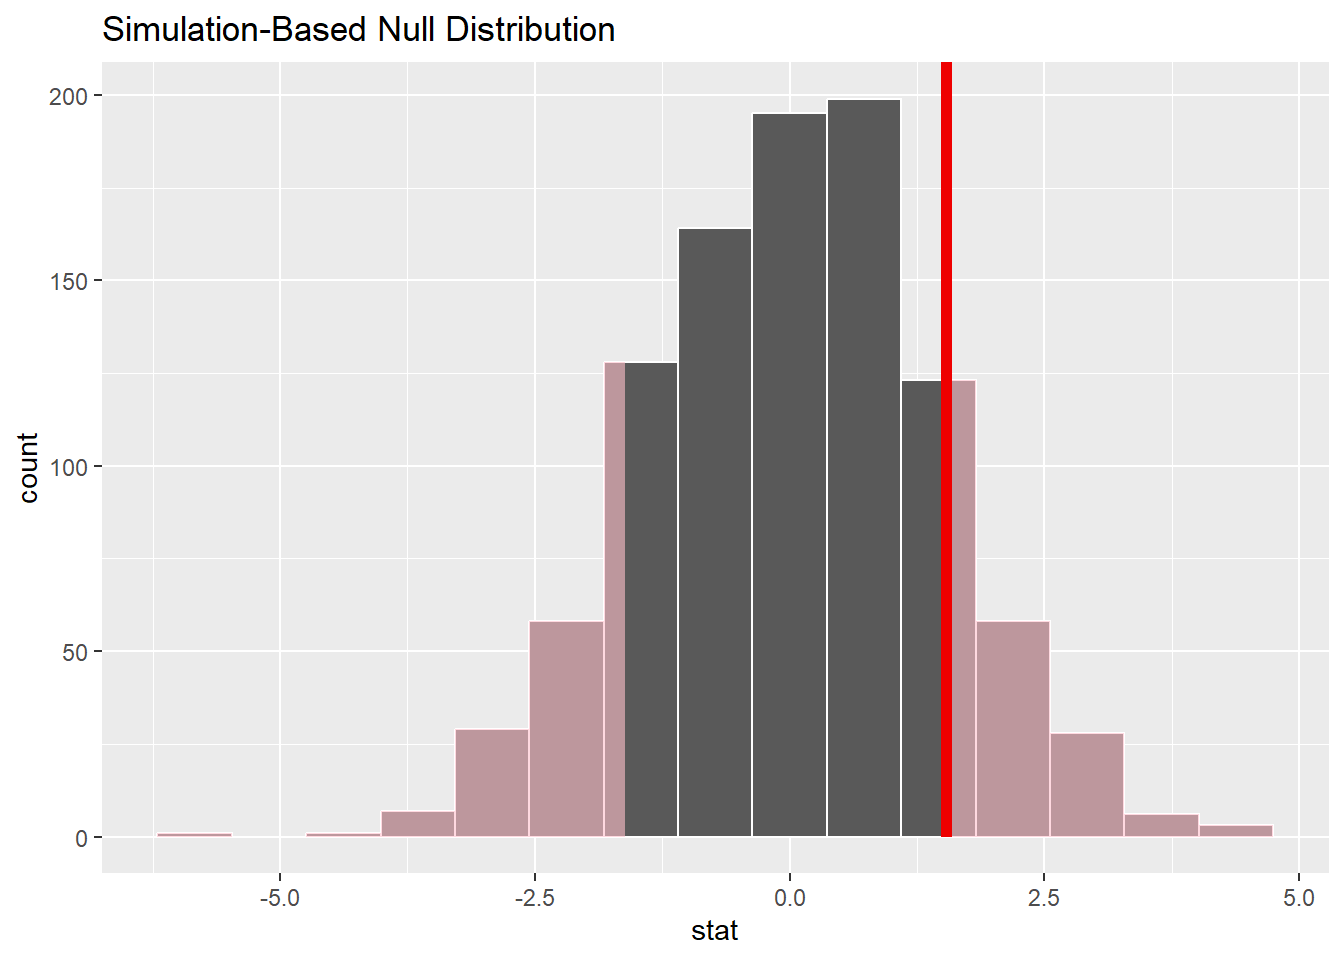
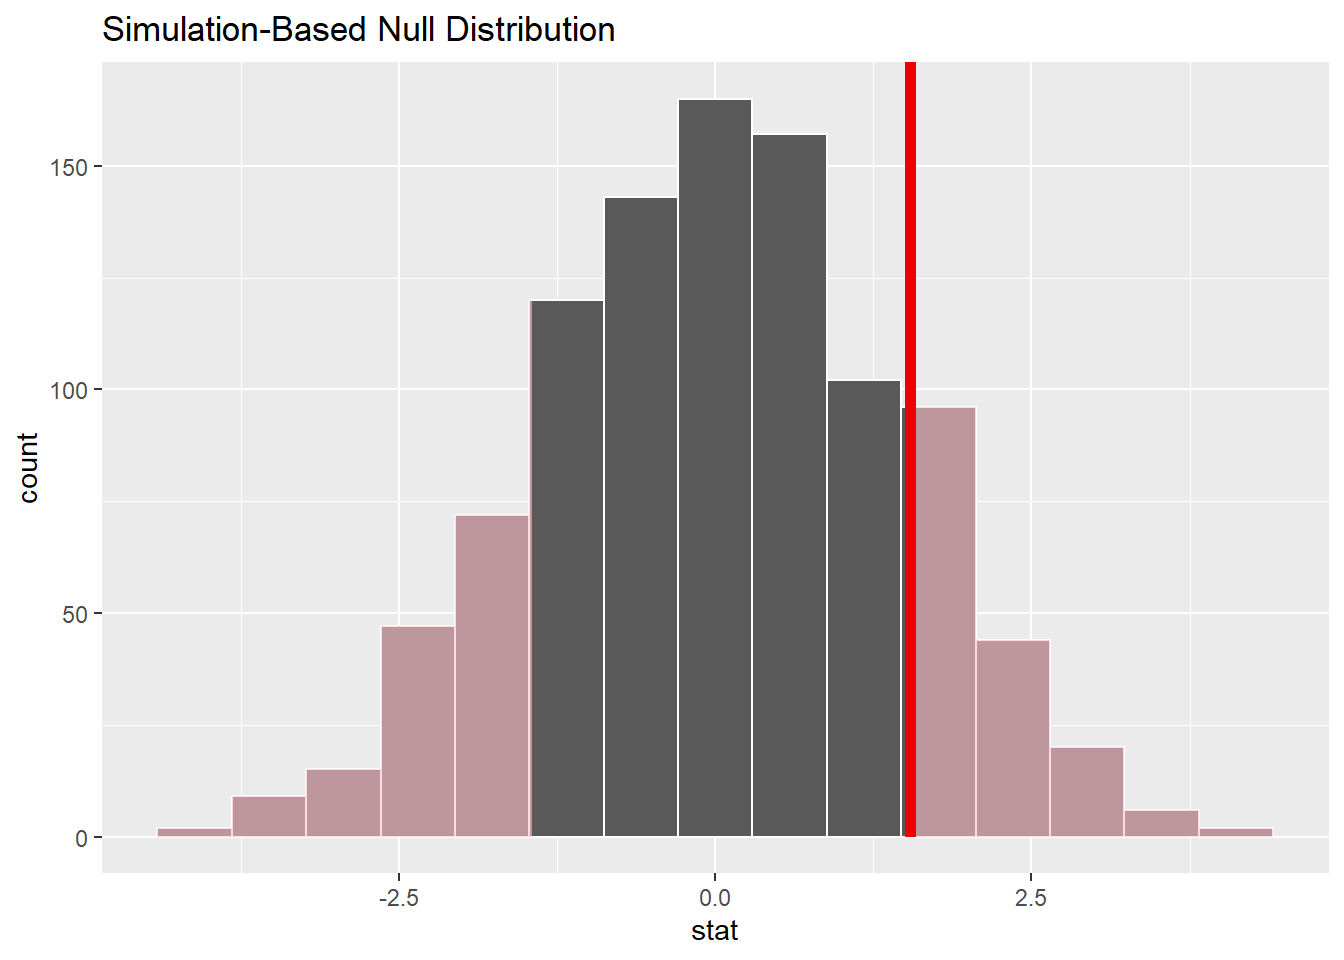
changes of typos and age for hours

diff --git a/docs/website/labs/lab10-inferences/lab10-inferences.html b/docs/website/labs/lab10-inferences/lab10-inferences.html
@@ -411,22 +411,22 @@ $ weight  &lt;dbl&gt; 0.8960034, 1.0825000, 0.5501000, 1.0864000, 1.0825000, 1.0
 <p>Nous allons commencer par spécifier la variable que nous voulons étudier. Pour cela nous pouvons utiliser la fonction <code>specify()</code>. Nous allons spécifier la variable <code>hours</code> qui représente le temps de travail hebdomadaire.</p>
 <div class="cell">
 <div class="sourceCode cell-code" id="cb4"><pre class="sourceCode r code-with-copy"><code class="sourceCode r"><span id="cb4-1"><a href="#cb4-1" aria-hidden="true" tabindex="-1"></a>gss <span class="sc">%&gt;%</span></span>
-<span id="cb4-2"><a href="#cb4-2" aria-hidden="true" tabindex="-1"></a>  <span class="fu">specify</span>(<span class="at">response =</span> age)</span></code><button title="Copy to Clipboard" class="code-copy-button"><i class="bi"></i></button></pre></div>
+<span id="cb4-2"><a href="#cb4-2" aria-hidden="true" tabindex="-1"></a>  <span class="fu">specify</span>(<span class="at">response =</span> hours)</span></code><button title="Copy to Clipboard" class="code-copy-button"><i class="bi"></i></button></pre></div>
 <div class="cell-output cell-output-stdout">
-<pre><code>Response: age (numeric)
+<pre><code>Response: hours (numeric)
 # A tibble: 500 × 1
-     age
+   hours
    &lt;dbl&gt;
- 1    36
- 2    34
- 3    24
- 4    42
- 5    31
- 6    32
- 7    48
- 8    36
- 9    30
-10    33
+ 1    50
+ 2    31
+ 3    40
+ 4    40
+ 5    40
+ 6    53
+ 7    32
+ 8    20
+ 9    40
+10    40
 # ℹ 490 more rows</code></pre>
 </div>
 </div>
@@ -468,16 +468,16 @@ Null Hypothesis: point
 # Groups:   replicate [1,000]
    replicate hours
        &lt;int&gt; &lt;dbl&gt;
- 1         1  87.6
- 2         1  46.6
- 3         1  38.6
- 4         1  48.6
- 5         1  48.6
- 6         1  70.6
- 7         1  38.6
- 8         1  42.6
- 9         1  58.6
-10         1  48.6
+ 1         1  38.6
+ 2         1  70.6
+ 3         1  28.6
+ 4         1  38.6
+ 5         1  38.6
+ 6         1  38.6
+ 7         1  23.6
+ 8         1  38.6
+ 9         1  36.6
+10         1  70.6
 # ℹ 499,990 more rows</code></pre>
 </div>
 </div>
@@ -495,16 +495,16 @@ Null Hypothesis: point
 # A tibble: 1,000 × 2
    replicate  stat
        &lt;int&gt; &lt;dbl&gt;
- 1         1  41.1
- 2         2  40.9
- 3         3  41.0
- 4         4  40.7
- 5         5  40.2
- 6         6  40.4
- 7         7  39.6
- 8         8  40.2
- 9         9  39.0
-10        10  40.6
+ 1         1  40.4
+ 2         2  39.8
+ 3         3  39.1
+ 4         4  40.3
+ 5         5  40.1
+ 6         6  40.0
+ 7         7  40.1
+ 8         8  40.3
+ 9         9  39.8
+10        10  41.1
 # ℹ 990 more rows</code></pre>
 </div>
 </div>
@@ -558,7 +558,7 @@ Null Hypothesis: point
 <pre><code># A tibble: 1 × 1
   p_value
     &lt;dbl&gt;
-1   0.034</code></pre>
+1   0.044</code></pre>
 </div>
 </div>
 <p>Avant de faire ce test, nous aurions du définir un niveau de signification <span class="math inline">\(\alpha\)</span>. Si la valeur p est inférieure à <span class="math inline">\(\alpha\)</span>, nous pouvons rejeter l’hypothèse nulle. En fixant <span class="math inline">\(\alpha = 0.05\)</span>, nous rejetons l’hypothèse nulle. En fixant <span class="math inline">\(\alpha = 0.01\)</span>, nous ne rejetons pas l’hypothèse nulle.</p>
@@ -585,7 +585,7 @@ Null Hypothesis: point
 <pre><code># A tibble: 1 × 2
   lower_ci upper_ci
      &lt;dbl&gt;    &lt;dbl&gt;
-1     40.1     42.7</code></pre>
+1     40.0     42.8</code></pre>
 </div>
 </div>
 <p>Ici, notez que dans la définition de <code>boot_dist</code>, nous n’avons pas défini d’hypothèse nulle. Cela signifie que nous générons une distribution de statistiques à partir de nos données sans hypothèse nulle. Nous utilisons ensuite cette distribution pour calculer l’intervalle de confiance.</p>
@@ -697,7 +697,7 @@ Explanatory: college (factor)
 <pre><code># A tibble: 1 × 1
   p_value
     &lt;dbl&gt;
-1   0.262</code></pre>
+1   0.302</code></pre>
 </div>
 </div>
 <section id="exercice-1" class="level2">
@@ -806,7 +806,7 @@ Explanatory: partyid (factor)
 <pre><code># A tibble: 1 × 1
   p_value
     &lt;dbl&gt;
-1   0.053</code></pre>
+1   0.063</code></pre>
 </div>
 </div>
 <section id="exercice-2" class="level2">
@@ -818,8 +818,8 @@ Explanatory: partyid (factor)
 <h1>Exercice - Effet de la cigarette sur la grossesse</h1>
 <section id="les-données" class="level2">
 <h2 class="anchored" data-anchor-id="les-données">Les données</h2>
-<p>Dans cet exercice, nous allons étudier l’effet de la cigarette sur la grossesse. Pour cela, nous allons utiliser le jeu de données <code>ncbirth</code> du package <code>openintro</code>. Ce jeu de données contient des données sur les grossesses de l’état de Caroline du Nord.</p>
-<p>Chargez le package <code>openintro</code> et affichez un aperçu des premières lignes du jeu de données <code>ncbirth</code>.</p>
+<p>Dans cet exercice, nous allons étudier l’effet de la cigarette sur la grossesse. Pour cela, nous allons utiliser le jeu de données <code>ncbirths</code> du package <code>openintro</code>. Ce jeu de données contient des données sur les grossesses de l’état de Caroline du Nord.</p>
+<p>Chargez le package <code>openintro</code> et affichez un aperçu des premières lignes du jeu de données <code>ncbirths</code>.</p>
 </section>
 <section id="le-poids-des-bébés" class="level2">
 <h2 class="anchored" data-anchor-id="le-poids-des-bébés">Le poids des bébés</h2>
